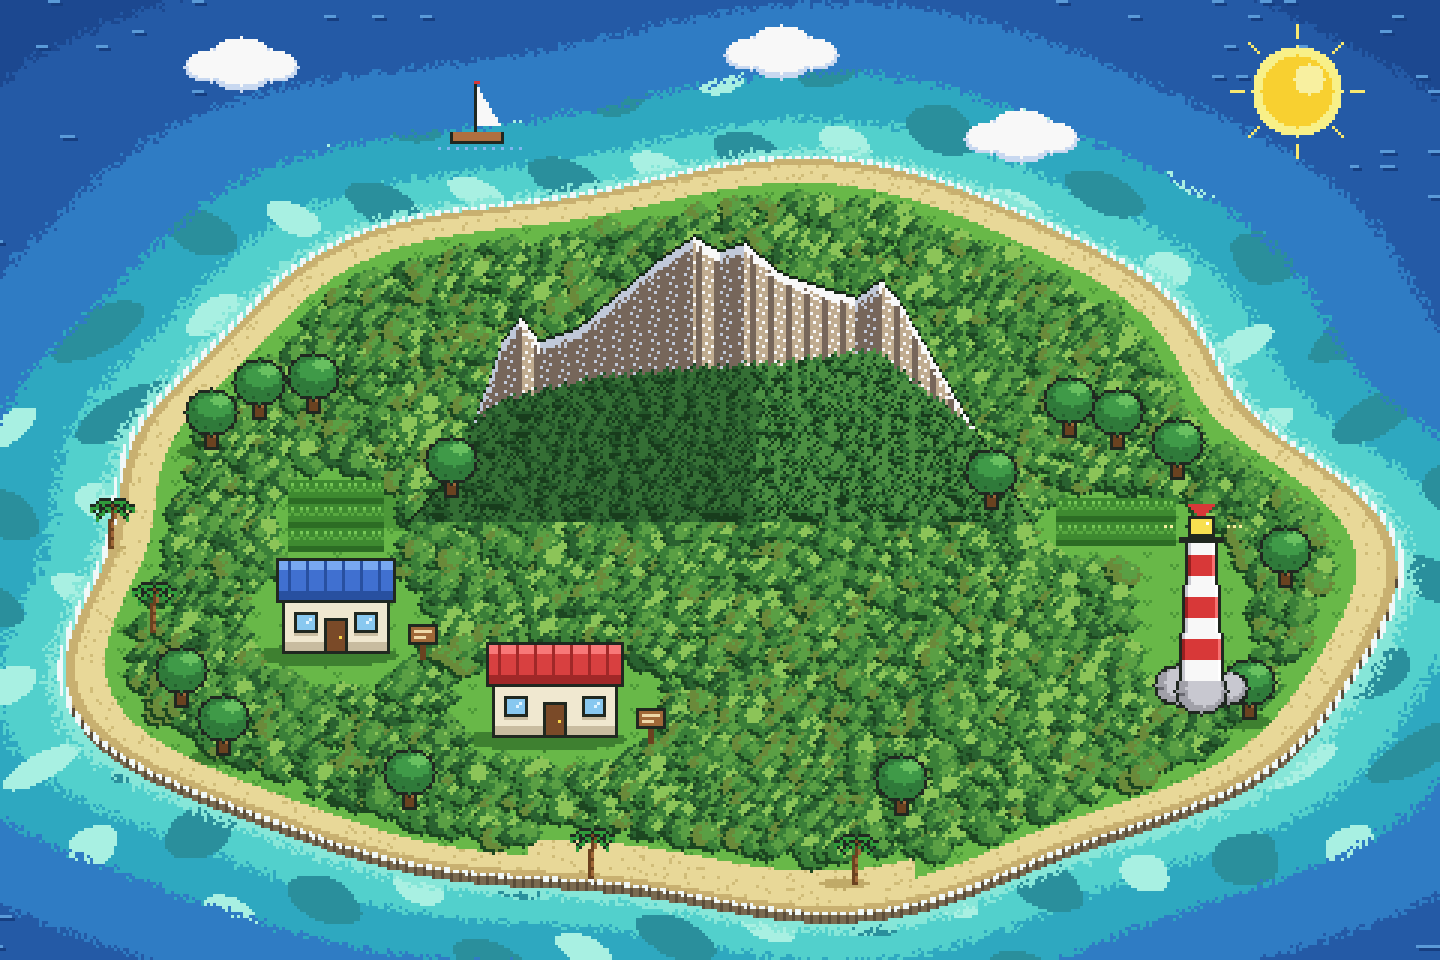
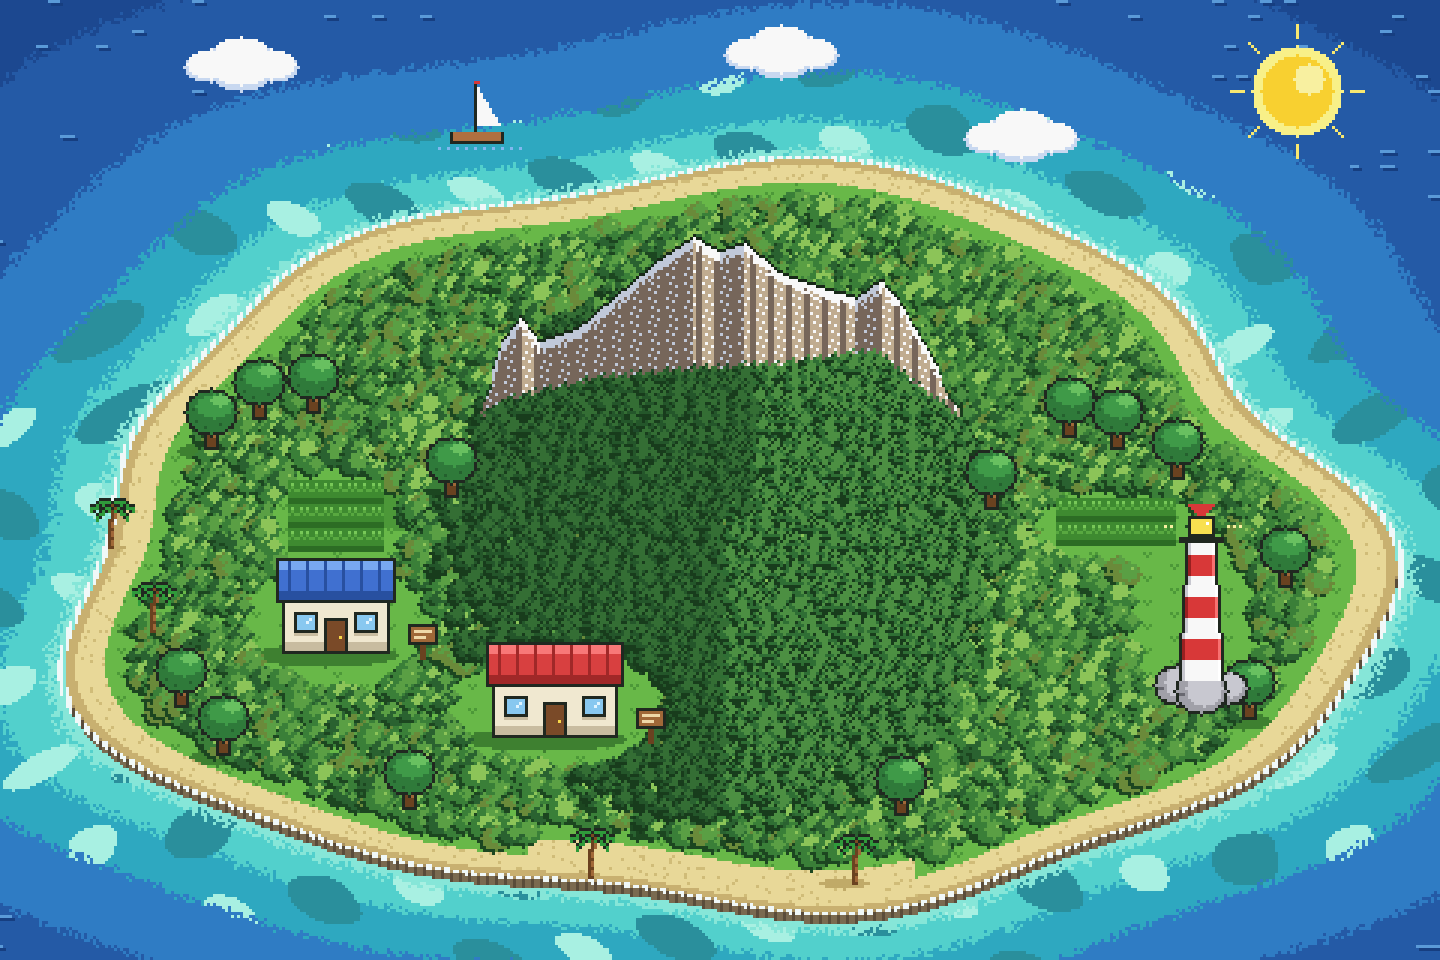
Blend La Malinche into the island instead of a cut-out edge
Add a round forested foot of the volcano's darker greens on the ground
(round, so it looks the same from every angle as the island turns), and
give the volcano sprite a treetop-shaped bottom edge and bumpy lower
slopes so its forest flows into that foot instead of ending in straight
lines.

diff --git a/art/render3.js b/art/render3.js
@@ -20,6 +20,9 @@ function get(x, y) {                                   // colour of the top-most
   return '#000000';
 }
 function onGround(fn) { const prev = target; target = layers[0]; fn(); target = prev; }
+// erase / test pixels of the layer being drawn (used to cut a soft edge into a sprite)
+function erase(x, y) { x = (x | 0) + OX; y = (y | 0) + OY; if (x < 0 || y < 0 || x >= CW || y >= CH) return; (target || layers.at(-1)).buf[(y * CW + x) * 4 + 3] = 0; }
+function painted(x, y) { x = (x | 0) + OX; y = (y | 0) + OY; return x >= 0 && y >= 0 && x < CW && y < CH && (target || layers.at(-1)).buf[(y * CW + x) * 4 + 3] > 0; }
 // Each object is drawn into its own temporary layer, saved as cropped sprites (for the 3D billboards), and its front
 // view is merged into the current layer (for the flat image). Shadows inside a view go to the ground via onGround().
 // views: one draw function (looks the same from every side) or four: [front, east, back, west], i.e. the side the
@@ -109,6 +112,18 @@ for (let y = 40; y < H; y += 4) for (let x = 0; x < W; x += 4) {
   disc(jx + 1, jy - 1, r - 2, r - 2, tone > 0.7 ? CANOPY.high : CANOPY.light);
   if (r > 4) px(jx + 2, jy - 2, CANOPY.high);
 }
+// La Malinche's forested foot: a round patch of the volcano's darker forest on the ground under it. Round, so it
+// looks the same from every angle while the island turns under the (still) volcano, and the volcano's lower
+// forest blends into it instead of ending in a straight edge.
+const FOOT_R = 96;
+for (let y = CY - FOOT_R; y <= CY + FOOT_R; y += 3) for (let x = CX - FOOT_R; x <= CX + FOOT_R; x += 3) {
+  const jx = x + ((hash(x, y + 21) * 3) | 0) - 1, jy = y + ((hash(y + 21, x) * 3) | 0) - 1;
+  if (Math.hypot(jx - CX, jy - CY) / FOOT_R > 1 - hash(jx, jy) * 0.15 || inClearing(jx, jy) || shape(jx, jy) > 0.9) continue;
+  const r = 2 + ((hash(jx + 3, jy) * 2) | 0), lit = jx > CX;
+  disc(jx - 1, jy + 1, r, r, '#183c1c');
+  disc(jx, jy, r, r - 1, lit ? '#2f6e34' : '#24562a');
+  disc(jx + 1, jy - 1, r - 1, r - 1, lit ? '#4c8f42' : '#346e34');
+}
 
 // ---- dirt paths meeting at a plaza in front of the volcano
 function path(points, w = 8) {
@@ -127,9 +142,21 @@ for (let y = 0; y < H; y++) for (let x = 0; x < W; x++) if (((x - 226) / 110) **
 layer('Malinche');
 // drawMalinche also has side/mirror profiles (east/west/back views) if the volcano should ever turn
 const volcano = (opts, w) => () => {
-  const ox = 240 - w / 2;
-  drawMalinche(px, ox, 70, w, 104, opts);
+  const ox = 240 - w / 2, oy = 70, h = 104, bottom = oy + h - 1;
+  drawMalinche(px, ox, oy, w, h, opts);
   forestCanopy();
+  // soften the edges where the volcano meets the forest: a treetop-shaped bottom edge, and treetop bumps along the
+  // lower slopes, instead of straight cut-out lines
+  for (let x = ox; x < ox + w; x++) {
+    const cut = 2 + Math.round(2 * (1 + Math.sin(x * 0.55)) + 2 * hash(x, 7));
+    for (let y = bottom - cut + 1; y <= bottom; y++) erase(x, y);
+    let top = oy; while (top < bottom && !painted(x, top)) top++;
+    if (top > oy + h * 0.5) {
+      const bump = Math.round(1 + (1 + Math.sin(x * 0.9)) + 2 * hash(x, 11));
+      for (let y = top; y < top + bump; y++) erase(x, y);
+      px(x, top + bump, '#183c1c');                                            // dark crown edge, like the canopy
+    }
+  }
 };
 // one view only: La Malinche keeps its recognisable front profile from every angle (the user's choice).
 // Anchored on the island centre (CX, CY), the point the island turns around, so it stays perfectly still on screen

diff --git a/src/app/island/island-data.ts b/src/app/island/island-data.ts
@@ -18,7 +18,7 @@ export const ISLAND = {
           "dx": -104,
           "dy": -104,
           "w": 208,
-          "h": 96
+          "h": 99
         }
       ]
     },
